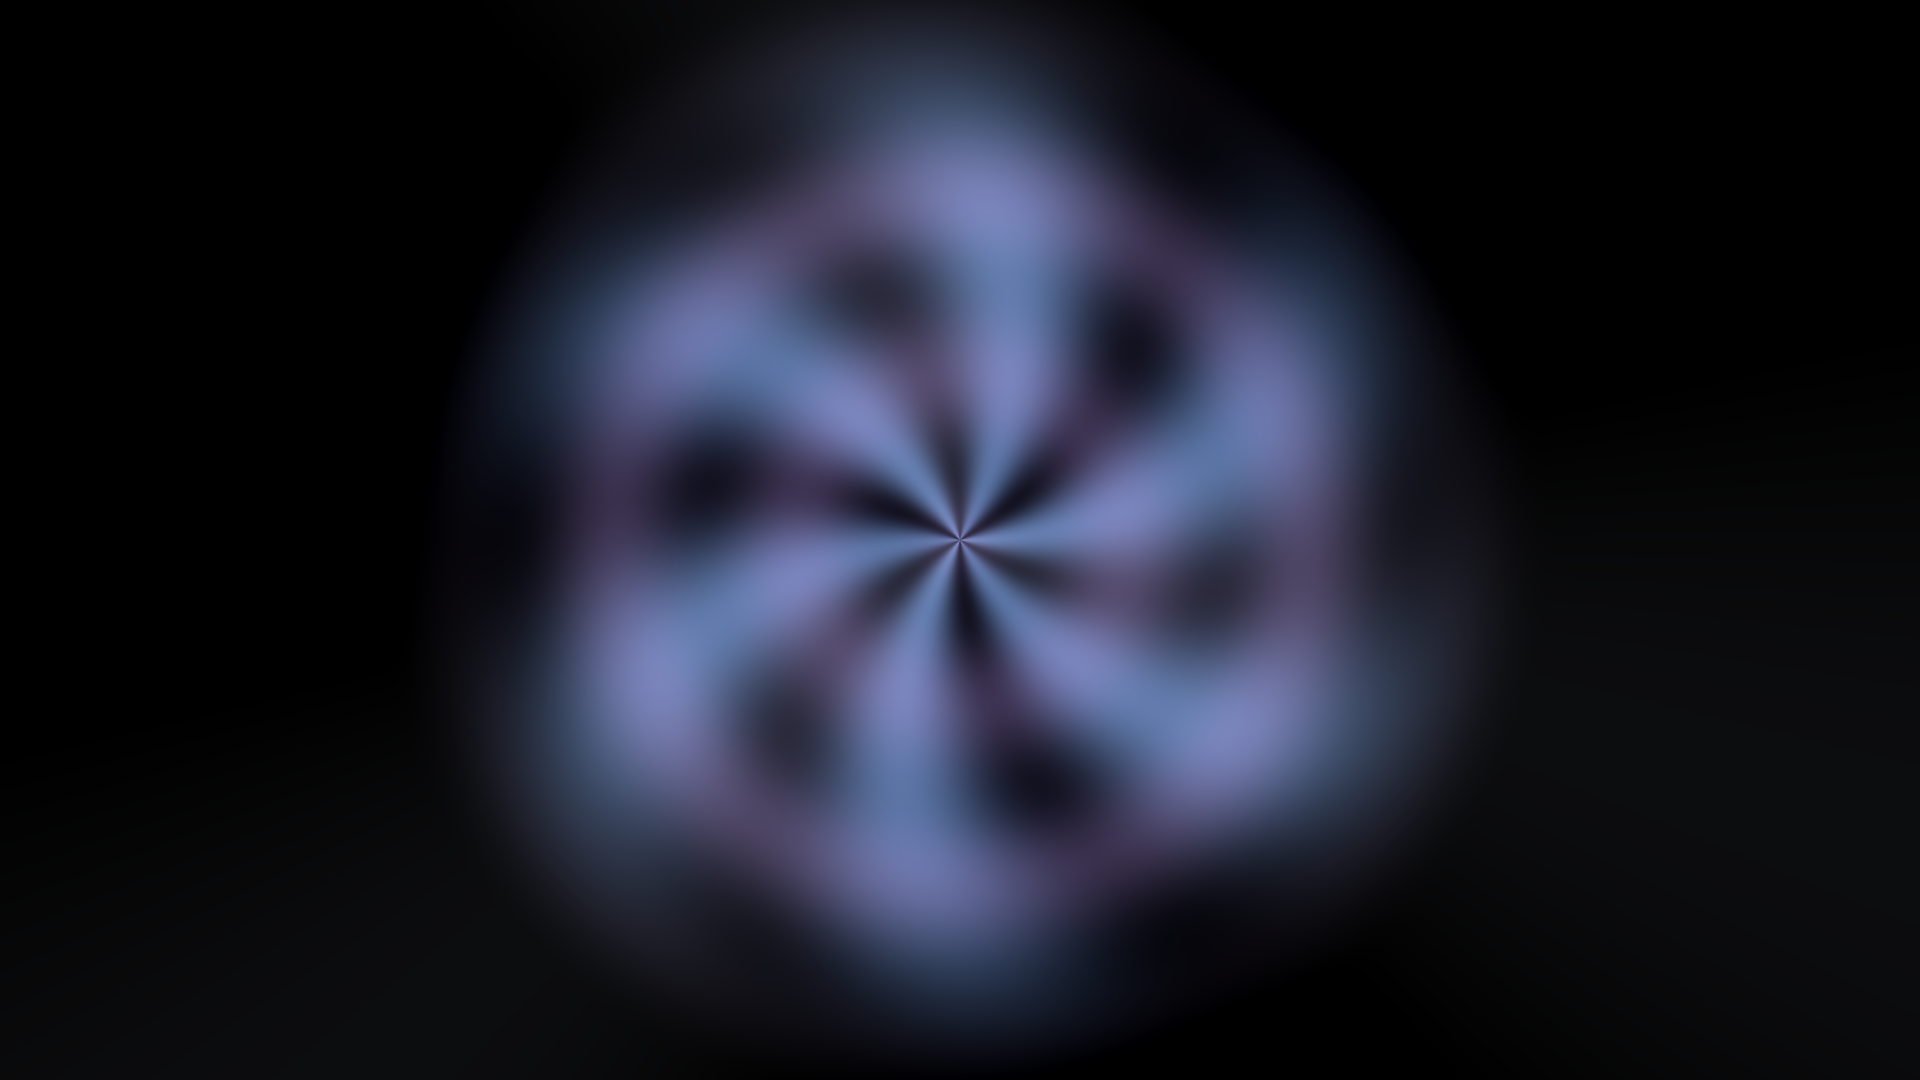
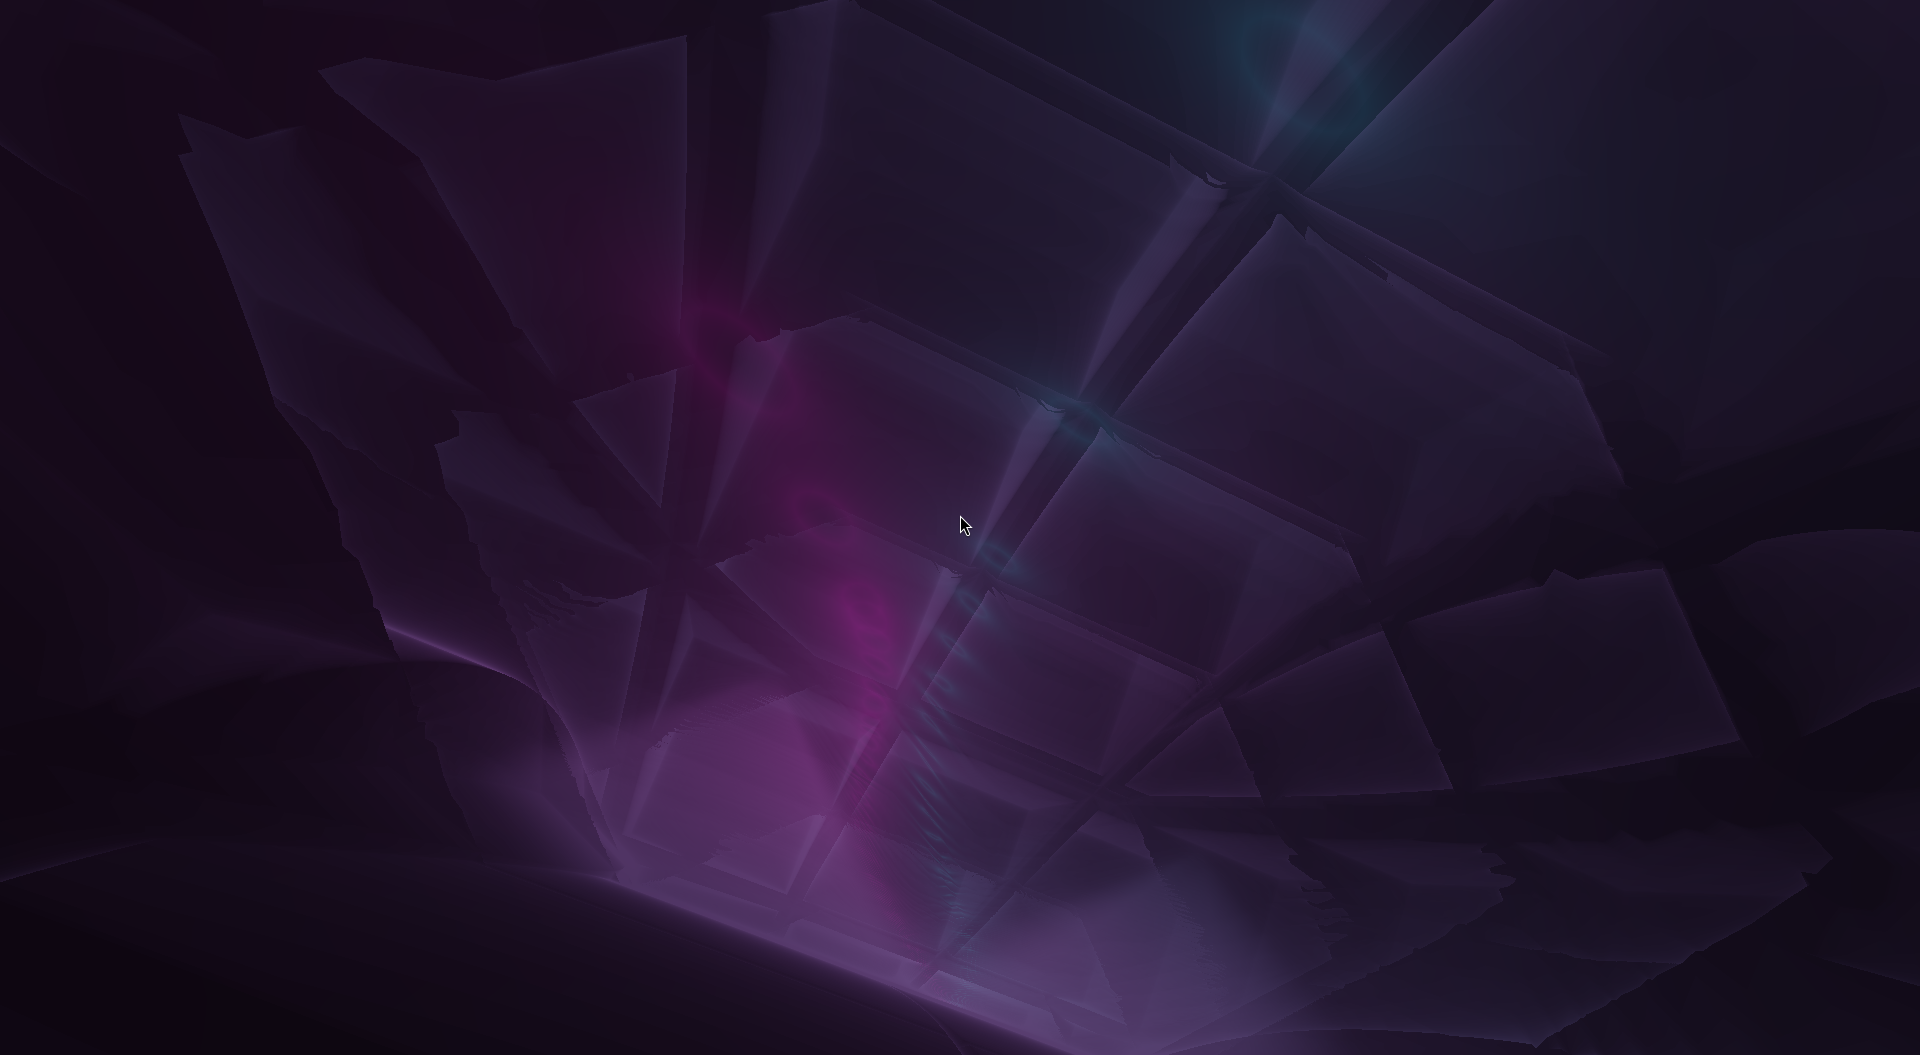
Omarwalls 1.1.0 — tunnel port, theme tunnel, self-install menu

diff --git a/WebWallpaper.qml b/WebWallpaper.qml
@@ -17,11 +17,30 @@ Item {
   property var shell: null
 
   readonly property string stateHome: (Quickshell.env("HOME") || "") + "/.local/state/omarchy-webwall/current"
+  readonly property string pluginDir: Qt.resolvedUrl(".").toString().replace(/^file:\/\//, "").replace(/\/$/, "")
   readonly property string cliPath: {
     var u = Qt.resolvedUrl("bin/omarchy-webwall").toString()
     return u.replace(/^file:\/\//, "")
   }
   property string lastUrl: ""
+
+  // `omarchy plugin add` has no post-install hook: the first time the service
+  // loads, link the CLI, add the login autostart and write the menu > Style >
+  // Omarwalls row. install.sh is idempotent, and the guard keeps every later
+  // shell start from rewriting the menu file.
+  Process {
+    running: true
+    command: ["bash", "-c",
+      'test -x "$HOME/.local/bin/omarchy-webwall"'
+      + ' && grep -q \'"style.hapatapa-omarwalls".*"label":"Omarwalls"\' "$HOME/.config/omarchy/extensions/omarchy-menu.jsonc" 2>/dev/null'
+      + ' || bash ' + JSON.stringify(root.pluginDir + "/install.sh")]
+    stdout: StdioCollector {
+      onStreamFinished: if (text.trim()) console.log("omarwalls setup:", text.trim())
+    }
+    stderr: StdioCollector {
+      onStreamFinished: if (text.trim()) console.warn("omarwalls setup:", text.trim())
+    }
+  }
 
   function openPicker() {
     if (root.shell && typeof root.shell.summon === "function") {

diff --git a/README.md b/README.md
@@ -22,9 +22,13 @@ Enter — is summoned from the shell or the CLI.
 omarchy plugin add https://github.com/hapatapa/omarwalls.git --enable --yes
 # the static built-in background would fight the live wallpaper for the layer:
 omarchy plugin disable omarchy.background
-# optional: put the CLI on PATH (~/.local/bin is already in it on Omarchy)
-ln -s ~/.config/omarchy/plugins/hapatapa.omarwalls/bin/omarchy-webwall ~/.local/bin/omarchy-webwall
-# install the bundled sample wallpapers into your store
+```
+
+The service self-installs the rest on first load: it links the CLI into
+`~/.local/bin`, adds the login autostart, and writes the
+**menu > Style > Omarwalls** row. Then install the bundled samples:
+
+```bash
 omarchy-webwall install-samples
 ```
 
@@ -78,10 +82,11 @@ manifest path; empty = stopped).
 
 ### Shader wallpapers
 
-`entry` is a GLSL fragment shader with Shadertoy conventions — provide
-`void mainImage(out vec4 fragColor, in vec2 fragCoord)` and use
-`iResolution`, `iTime`, `iFrame`, `iMouse`, `iDate`. The Omarchy theme is
-available as a `uniform vec4 u_theme[16]`:
+`entry` is a GLSL fragment shader. Shadertoy conventions are supported —
+provide `void mainImage(out vec4 fragColor, in vec2 fragCoord)` and use
+`iResolution`, `iTime`, `iFrame`, `iMouse`, `iDate` — and so are
+self-contained shaders that define `void main()` and write `fragColor`
+directly. The Omarchy theme is available as a `uniform vec4 u_theme[16]`:
 
 | Slot | Meaning | Fallback source |
 |---|---|---|
@@ -141,8 +146,12 @@ needed for shader-only setups; Qt is needed for web/video. Pass `rebuild` to
 ## Samples
 
 `omarchy-webwall install-samples` copies the bundled wallpapers into your
-store: `aurora`, `plasma`, `tunnel` (shaders), `web-demo` (theme web demo),
-`drift-video` (video).
+store: `aurora`, `plasma`, `tunnel`, `tunnel-theme` (shaders), `web-demo`
+(theme web demo), `drift-video` (video).
+
+`tunnel` is a port of the raymarched “I like tunnels” scene from the author's
+Wallpaper Engine workshop item; `tunnel-theme` runs the same scene with its
+two light streams taken from the active Omarchy palette.
 
 ## License
 
